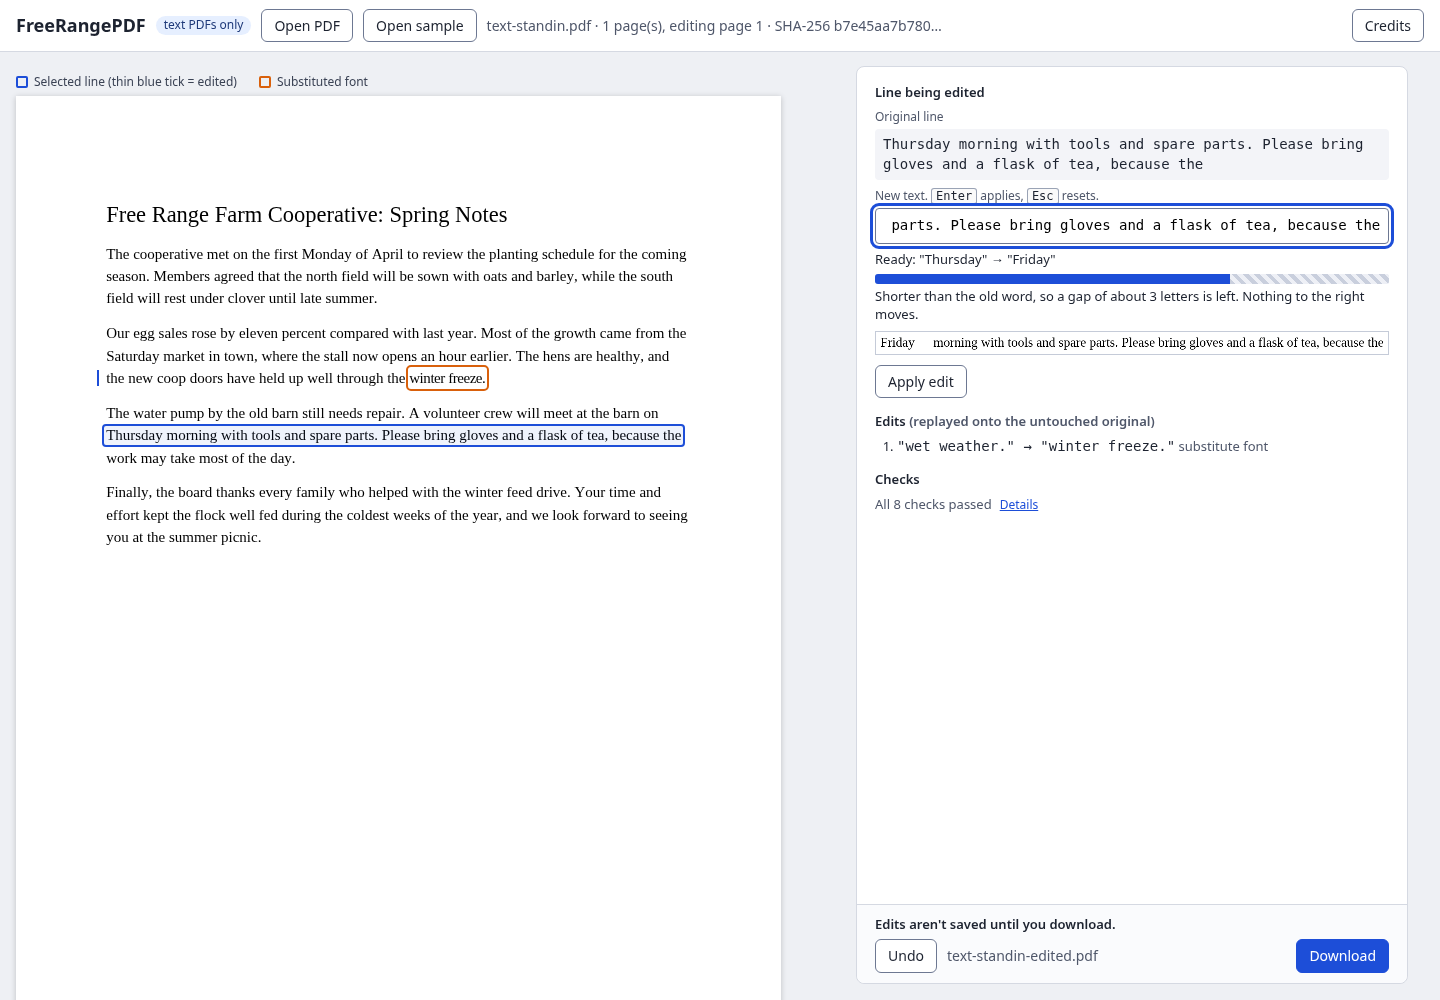
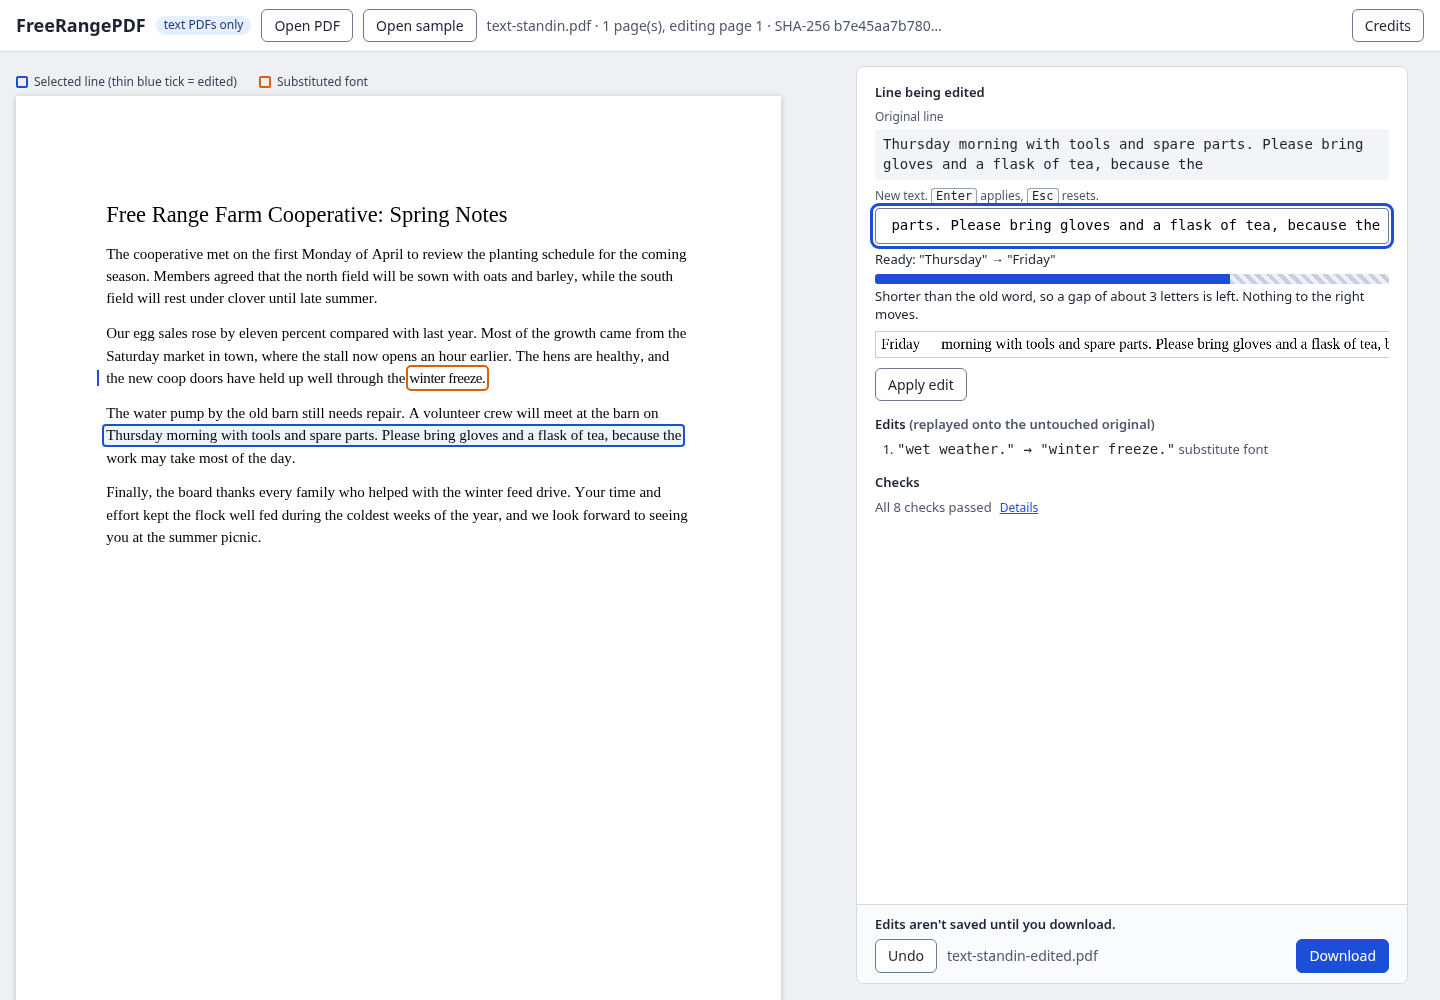
Editor: empty-state prompt with Open PDF, preview strip at page text size, monospace technical check lines

Changed region(s): [[0.5938, 0.341, 0.9688, 0.465], [0.625, 0.496, 0.7188, 0.527], [0.5938, 0.465, 0.625, 0.496]]

diff --git a/app/app.js b/app/app.js
@@ -141,7 +141,7 @@ async function drawStrip(r, line) {
   const w = Math.round(x1 - x0), h = Math.round(y1 - y0); cv_.width = w + 2 * P; cv_.height = h + 2 * P; const g = cv_.getContext('2d'); g.fillStyle = '#fff'; g.fillRect(0, 0, cv_.width, cv_.height);
   g.drawImage(full, Math.round(x0), Math.round(y0), w, h, P, P, w, h);
   if (r.font.used === 'fallback') { const b = r.span.bboxPdf; g.strokeStyle = '#d9600b'; g.lineWidth = 2; g.strokeRect(P + (b.x0 - vb[0]) * K - Math.round(x0), P + (vb[3] - b.y1) * K - Math.round(y0) + 2, (b.x1 - b.x0) * K, Math.min(h - 4, (b.y1 - b.y0) * K)); }
-  cv_.style.width = Math.min(cv_.width / 1.5, 516) + 'px'; cv_.hidden = false;
+  cv_.style.width = (cv_.width * S.scale / K) + 'px'; /* same px-per-point as the page, so strip text = page text size */ cv_.hidden = false;
 }
 function showPreview(r, e) {
   for (const id of ['gapbar', 'subst', 'refuse', 'crop']) $(id).hidden = true; const o = r.overflow;
@@ -214,7 +214,7 @@ async function verify() {
     const vb = o.viewBox; const inside = (x, y) => bands.some(b => x >= (b.x0 - vb[0]) - 3 && x <= (b.x1 - vb[0]) + 3 && y >= (vb[3] - b.y1) - 3 && y <= (vb[3] - b.y0) + 3);
     const d = diff(cA, cB, inside); add(d.outside === 0, `Rendered pixels outside the edited spans: ${d.outside} changed`);
   } catch (err) { add(false, 'Re-open check failed: ' + err.message); }
-  ul.innerHTML = items.map(([ok, t]) => `<li class="${ok ? 'ok' : 'bad'}">${esc(t)}</li>`).join('');
+  ul.innerHTML = items.map(([ok, t]) => { const m = /^(.*?) \[(line \d+:.*)\]$/s.exec(t); return `<li class="${ok ? 'ok' : 'bad'}">${esc(m ? m[1] : t)}${m ? `<span class="tech">${esc(m[2])}</span>` : ''}</li>`; }).join('');
   const nbad = items.filter(i => !i[0]).length; const sum = $('checksum'), det = $('checkdetails');
   sum.className = nbad ? 'fail' : 'muted'; sum.textContent = nbad ? `${nbad} of ${items.length} checks failed` : `All ${items.length} checks passed`;
   det.hidden = false; ul.hidden = !nbad; det.textContent = nbad ? 'Hide details' : 'Details'; // failed checks stay open
@@ -228,11 +228,11 @@ $('download').addEventListener('click', () => { if (!S.verified) return; const a
 function resetDoc() { // FIRST thing on every open: nothing of a previous document may stay live
   S.cur = null; S.orig = null; S.queuedUndo = false; S.pending = false; S.origSha = null; S.edits = []; S.curRes = []; S.lines = []; S.sel = -1; S.verified = false; S.lastPreview = null; S.savedKey = null; S.name = ''; S.previewSeq++;
   clearTimeout(timer); $('download').disabled = true; $('undo').disabled = true; refreshNotes(); $('dlname').textContent = ''; setApply('off'); $('docinfo').textContent = '';
-  $('editor').hidden = true; $('nosel').hidden = false; $('nosel').className = 'muted'; $('nosel').textContent = 'No line selected.'; $('overlay').innerHTML = ''; $('legendwrap').hidden = true;
+  $('emptystate').hidden = true; $('editor').hidden = true; $('nosel').hidden = false; $('nosel').className = 'muted'; $('nosel').textContent = 'No line selected.'; $('overlay').innerHTML = ''; $('legendwrap').hidden = true;
   const c = $('page'); c.width = 1; c.height = 1; $('checks').hidden = true; $('checkdetails').hidden = true; $('checksum').className = 'muted'; $('checksum').textContent = 'No edits yet.'; $('edits').innerHTML = '';
   for (const id of ['gapbar', 'subst', 'refuse', 'crop', 'charmark']) $(id).hidden = true;
 }
-function failOpen(text) { resetDoc(); $('nosel').className = 'refuse'; $('nosel').textContent = text; if (S.everOpened) { const d = document.createElement('div'); d.className = 'reason'; d.textContent = MSG.openFailedAfter; $('nosel').appendChild(d); } }
+function failOpen(text) { resetDoc(); $('emptystate').hidden = false; $('nosel').className = 'refuse'; $('nosel').textContent = text; if (S.everOpened) { const d = document.createElement('div'); d.className = 'reason'; d.textContent = MSG.openFailedAfter; $('nosel').appendChild(d); } }
 let openSeq = 0;
 async function openBytes(u8, name) {
   const my = ++openSeq; resetDoc(); setBusy(true);
@@ -252,7 +252,7 @@ async function openBytes(u8, name) {
   } catch (err) { console.warn('open failed:', err && err.message); failOpen(MSG.unreadable); }
   finally { if (my === openSeq) setBusy(false); }
 }
-$('openbtn').addEventListener('click', () => $('file').click());
+$('openbtn').addEventListener('click', () => $('file').click()); $('openbtn2').addEventListener('click', () => $('file').click());
 $('file').addEventListener('change', async ev => { const f = ev.target.files[0]; ev.target.value = ''; if (!f) return; let b; try { b = new Uint8Array(await f.arrayBuffer()); } catch { return failOpen(MSG.unreadable); } openBytes(b, f.name); });
 $('sample').addEventListener('click', async () => openBytes(new Uint8Array(await (await fetch('../proof/inputs/text-standin.pdf')).arrayBuffer()), 'text-standin.pdf'));
 

diff --git a/app/app.css b/app/app.css
@@ -21,7 +21,7 @@ kbd{border:1px solid #9aa3b5;border-bottom-width:2px;border-radius:3px;padding:0
 .refuse{margin-top:8px;padding:8px 10px;border:1px solid #b42318;border-radius:6px;background:#fff0f0;color:#7a1111;font-size:13px}
 #crop{display:block;max-width:100%;margin-top:8px;border:1px solid #c5cbd8}
 #edits{margin:0;padding-left:22px;font-size:13px}#edits li{margin:2px 0}
-.checks{list-style:none;margin:6px 0 0;padding:0;font-size:13px}.checks li{padding:1px 0}.ok::before{content:"\2713 ";color:#146c43;font-weight:700}.bad{color:#1d2330}.bad::before{content:"\2717 ";font-weight:700}
+.checks{list-style:none;margin:6px 0 0;padding:0;font-size:13px}.checks li{padding:1px 0}.ok::before{content:"\2713 ";color:#146c43;font-weight:700}.bad{color:#1d2330}#checksum .reason{font:12px/1.4 ui-monospace,Menlo,Consolas,monospace;color:#3a4254}.bad::before{content:"\2717 ";font-weight:700}
 #checksum{font-size:13px;display:inline}#checksum.fail{color:#1d2330;font-weight:600}#checksum.fail .reason{font-weight:400}#checkdetails{margin-left:8px;font-size:12px;color:#1d4ed8}
 .hint{color:#4f576a;font-size:12px;margin:4px 0}#credits{position:fixed;inset:0;background:#0006;display:flex;justify-content:center;padding-top:40px}
 #credits .card{background:#fff;width:900px;max-height:80vh;overflow:auto;border-radius:8px;padding:12px 24px}#credits table{border-collapse:collapse;width:100%}#credits td,#credits th{border-bottom:1px solid #e1e4ea;padding:5px 8px;text-align:left;vertical-align:top;font-size:13px}
@@ -32,3 +32,6 @@ kbd{border:1px solid #9aa3b5;border-bottom-width:2px;border-radius:3px;padding:0
 #charmark{margin-top:6px}#charmirror{padding:4px 8px;background:#fff6ee;border:1px solid #d9600b;border-radius:4px;white-space:pre-wrap;word-break:break-word}.badch{text-decoration:underline;text-decoration-color:#d9600b;text-decoration-thickness:3px;text-underline-offset:3px;background:#ffe3cc}
 #charmsg{font-size:13px;color:#8a3a00;margin-top:3px}
 #checksum.fail{display:block}#footnotes:not(:has(span:not([hidden]))){display:none}
+#emptystate{display:flex;flex-direction:column;align-items:center;justify-content:center;gap:14px;min-height:420px;font-size:15px;color:#1d2330}#crop{height:auto}
+.tech{display:block;font:12px/1.4 ui-monospace,Menlo,Consolas,monospace;color:#3a4254;margin:1px 0 3px 14px;word-break:break-word}
+#preview{overflow-x:auto}#crop{max-width:none}#emptystate:not([hidden]) ~ .hint{display:none}

diff --git a/app/index.html b/app/index.html
@@ -17,6 +17,7 @@
 </header>
 <main>
   <section id="left"><div class="legend" id="legendwrap" hidden><span><i class="sw blue"></i>Selected line (thin blue tick = edited)</span><span><i class="sw orange"></i>Substituted font</span></div>
+    <div id="emptystate"><div>Open a PDF to start editing</div><button id="openbtn2" class="btn primary">Open PDF</button></div>
     <div id="pagewrap"><canvas id="page"></canvas><div id="overlay"></div></div>
     
     <p class="hint">Click a line, or Tab to the page and use the arrow keys to move between lines (<kbd>Alt</kbd>+<kbd>↑</kbd>/<kbd>↓</kbd> from the text box).</p></section>
